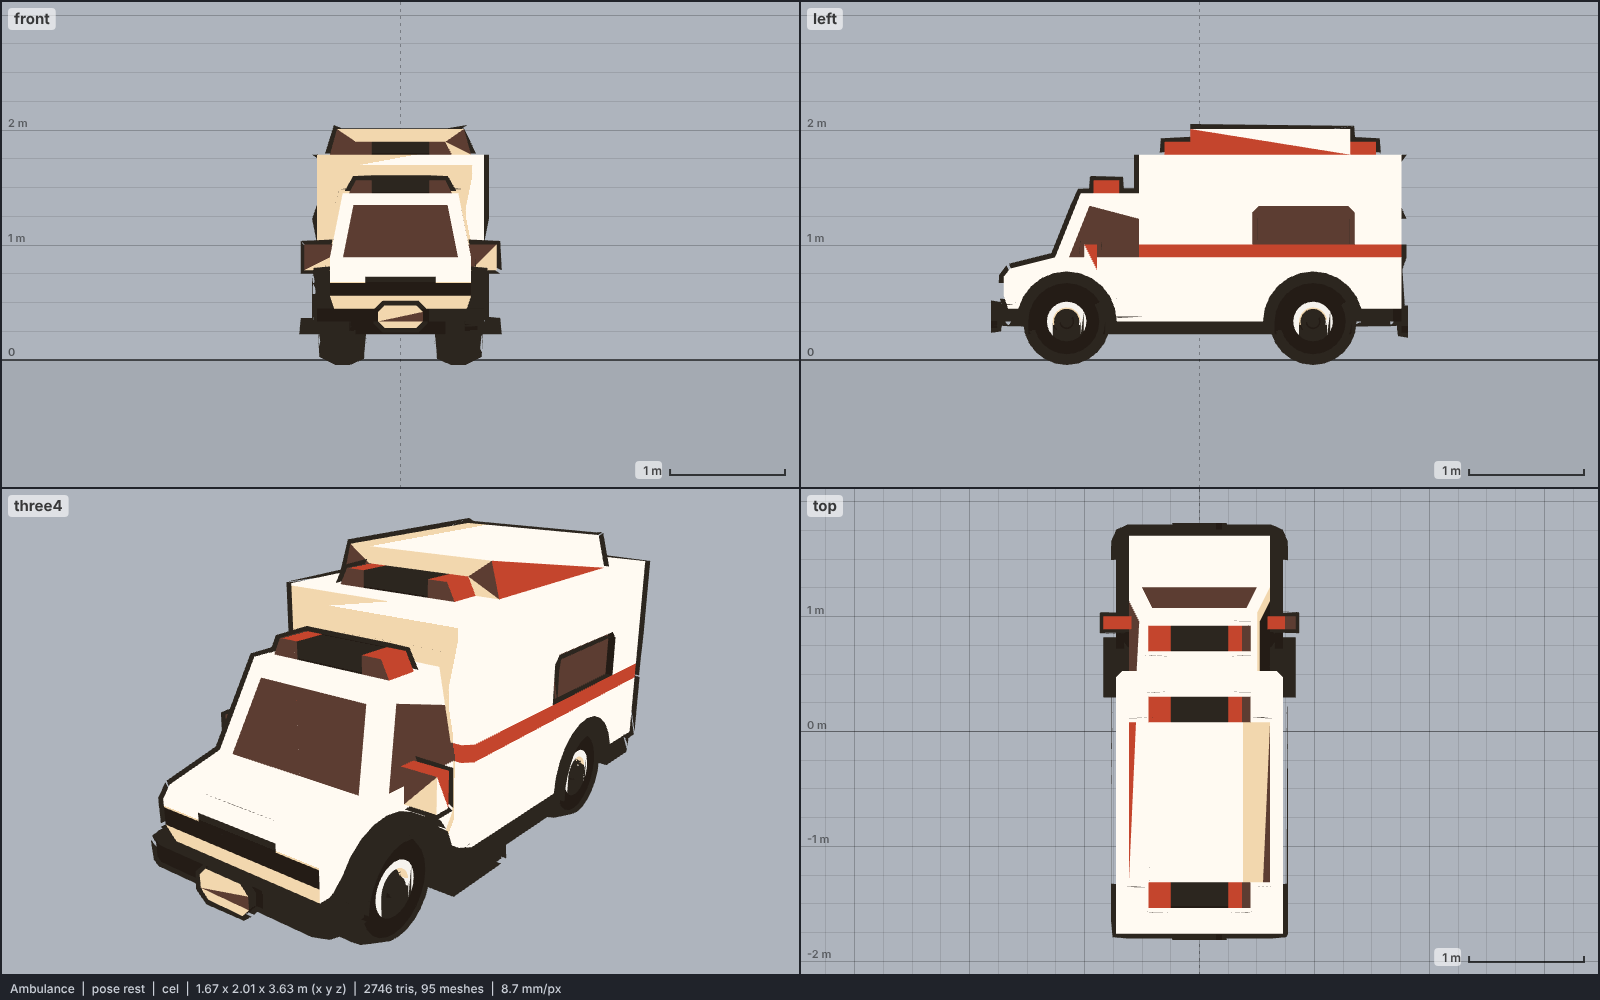
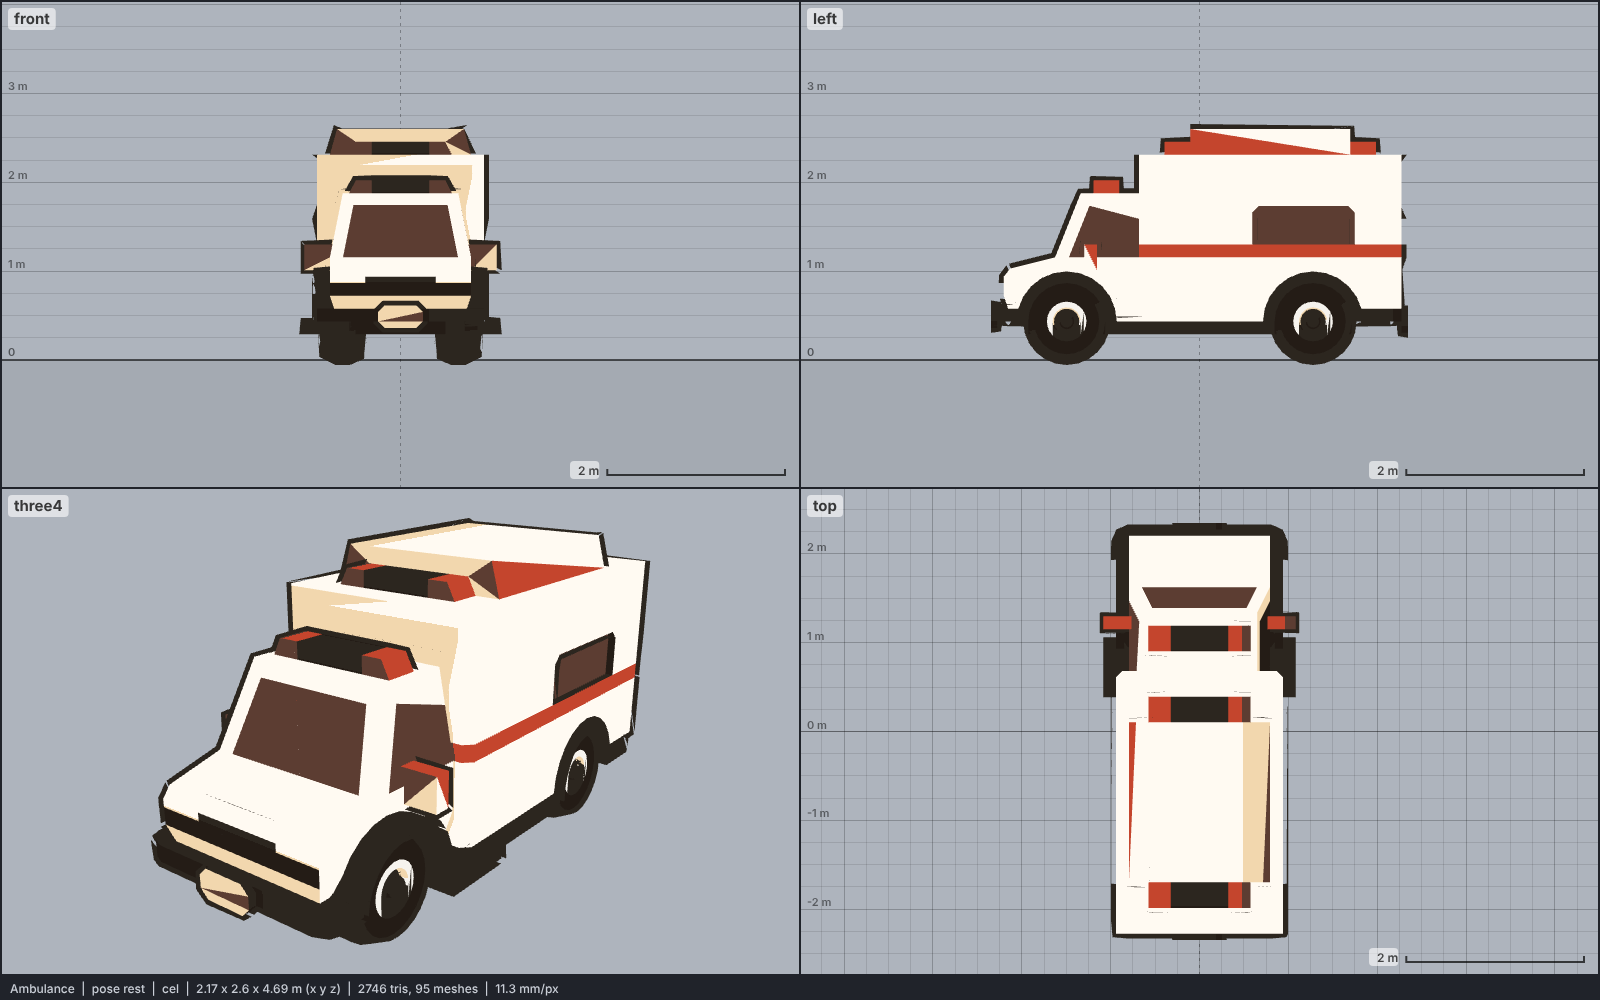
Library: car-ambulance at real size (2.6 m tall, 4.69 m long)
Rescaled from Kenney kit scale (2.01 m) to a real Japanese high-roof
ambulance height so it stands with the tractor, fire truck and characters.
Merged the latest pipeline.

Claude-Session: https://claude.ai/code/session_01RarBCdt4E1fNHHaUKaW5GL

diff --git a/models/CATALOG.md b/models/CATALOG.md
@@ -9,4 +9,4 @@
 
 | preview | id | model | height | tris | clips | licence | source |
 | --- | --- | --- | --- | --- | --- | --- | --- |
-| <img src="library/car-ambulance/preview.png" width="240"> | `car-ambulance` | Ambulance<br>*low-poly, flat colours (Kenney Car Kit)* | 2.01 m | 2746 | - | CC0 1.0 | [Kenney · Car Kit](https://kenney.nl/assets/car-kit) |
+| <img src="library/car-ambulance/preview.png" width="240"> | `car-ambulance` | Ambulance<br>*low-poly, flat colours (Kenney Car Kit)* | 2.6 m | 2746 | - | CC0 1.0 | [Kenney · Car Kit](https://kenney.nl/assets/car-kit) |
